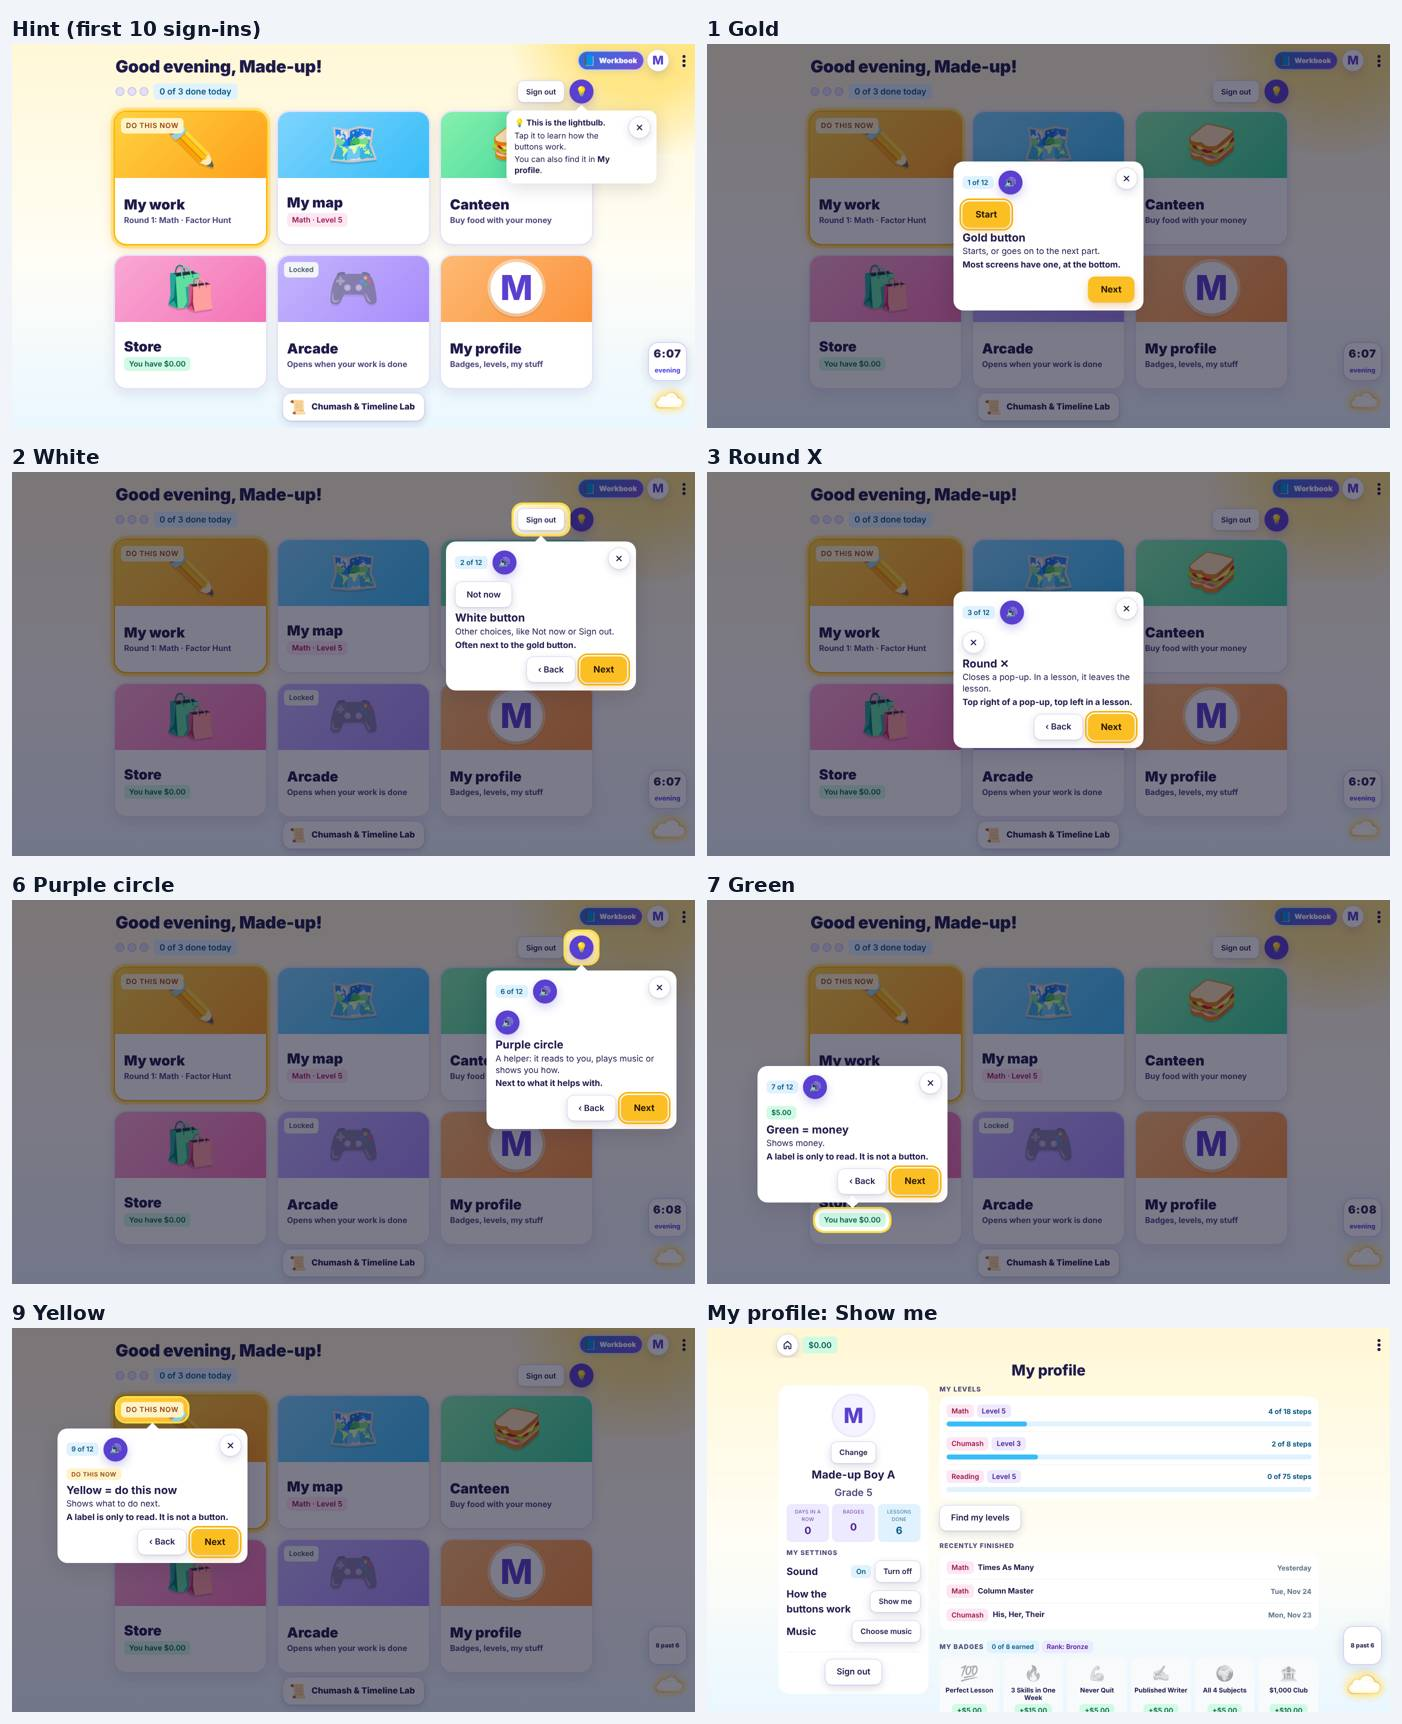
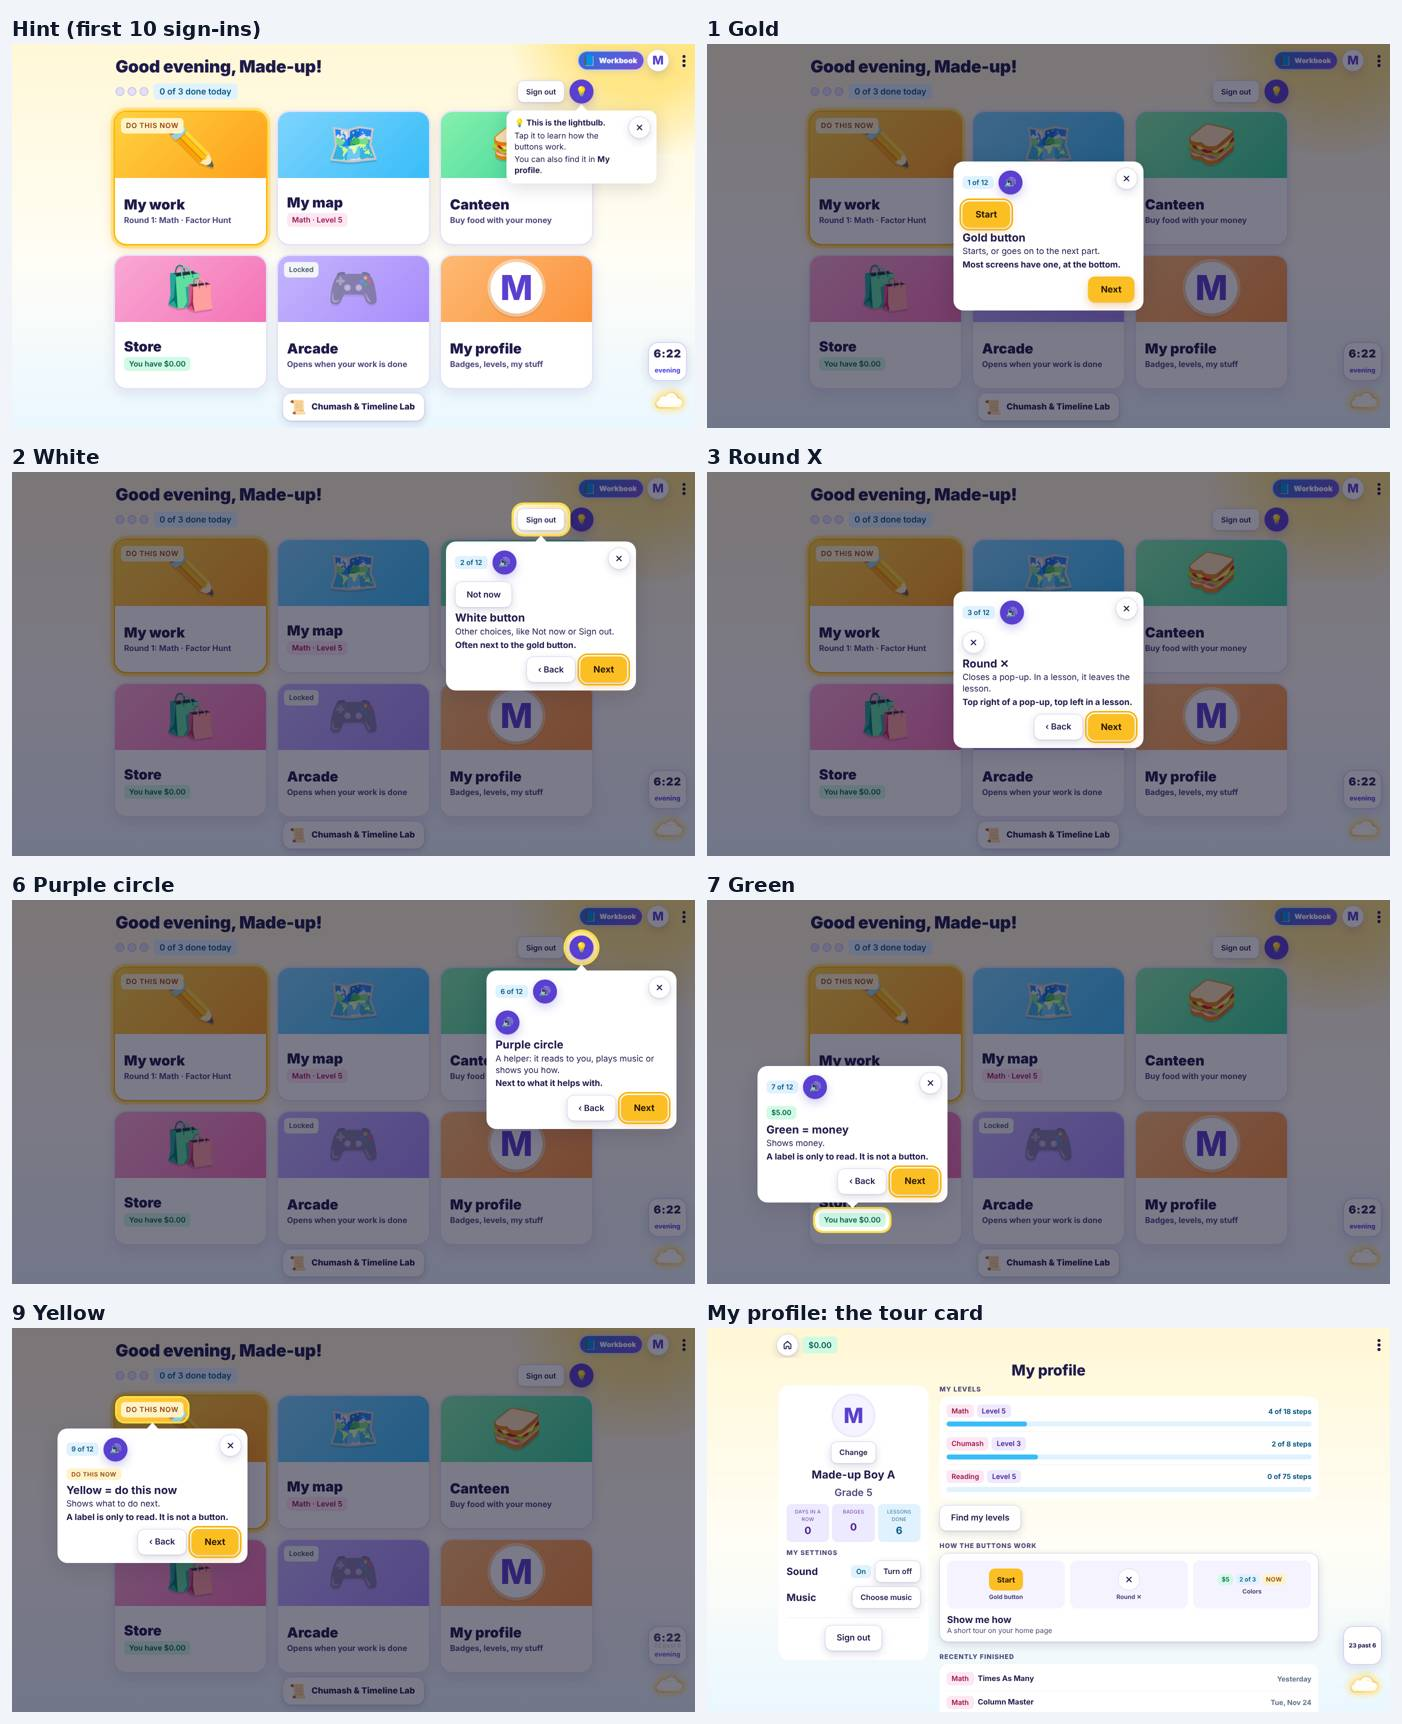
My profile: the tour is its own card with small previews, under My levels
Claude-Session: https://claude.ai/code/session_01AJ42nXYzFWqbuJT8SdfQ3Y

diff --git a/src/GameMap.html b/src/GameMap.html
@@ -630,7 +630,6 @@ function moreHTML(ws,P){ const k2=document.body.classList.contains('gm-k2'), st=
   <div class="pr-boxes">${Q.box('rank','Days in a row',String(streak))}${Q.box('rank','Badges',String(earned))}${Q.box('prog','Lessons done',String(lessons))}</div>
   <h2 class="pr-sec">My settings</h2>
   <div class="pr-set"><span>Sound</span>${Q.pill(snd?'prog':'lock',snd?'On':'Off')}${Q.quiet(snd?'Turn off':'Turn on','data-gm="pfsnd"','tlk-small')}</div>
-  <div class="pr-set"><span>How the buttons work</span>${Q.quiet('Show me','data-gm="pftour"','tlk-small')}</div>
   <div class="pr-set"><span>Music</span>${Q.quiet('Choose music','data-gm="pfmus"','tlk-small')}</div>
   <div class="pr-out">${Q.quiet('Sign out','data-gm="pfout"')}</div></aside>`;
  /* his levels */
@@ -639,7 +638,13 @@ function moreHTML(ws,P){ const k2=document.body.classList.contains('gm-k2'), st=
   return `<div class="pr-lv"><div class="r">${Q.pill('subj',w.name)}${Q.pill('rank','Level '+w.level)}<span class="n">${dn} of ${tot} steps</span></div><span class="pr-bar" role="img" aria-label="${dn} of ${tot} steps"><i style="width:${pc}%"></i></span></div>`; }).join('');
  if(!lv) lv='<p class="pr-none">Your rebbe or teacher sets your levels. Until then, find your levels below.</p>';
  const find=document.querySelector('#app [data-hp=levels]');
- const levels=sec('My levels')+`<div class="pr-card">${lv}</div>`+(find?`<div class="pr-row">${Q.quiet('Find my levels',px(find).trim())}</div>`:'');
+ const levels=sec('My levels')+`<div class="pr-card">${lv}</div>`+(find?`<div class="pr-row">${Q.quiet('Find my levels',px(find).trim())}</div>`:'')
+  /* HoS 2026-11-26: the button tour has its own section here, with small previews of its cards; the whole card opens the tour */
+  +sec('How the buttons work')+`<button type="button" class="tlk tlk-tile pr-tour" data-gm="pftour" aria-label="Show me how the buttons work"><span class="pr-tprev" aria-hidden="true">`
+  +`<span class="pr-tc"><span class="tlk tlk-main tlk-small">Start</span><small>Gold button</small></span>`
+  +`<span class="pr-tc"><span class="tlk tlk-x">${TLK.X_SVG}</span><small>Round ✕</small></span>`
+  +`<span class="pr-tc">${Q.pill('money','$5')}${Q.pill('prog','2 of 3')}${Q.pill('now','Now')}<small>Colors</small></span>`
+  +`</span><span class="pr-tgo"><b>Show me how</b><small>A short tour on your home page</small></span></button>`;
  /* what he finished lately (his map's growth: mastered steps in the last 7 days) */
  const wk=((g&&g.week)||[]).slice(0,5), subjOf=id=>{ const w=ws.find(x=>x.ids.indexOf(id)>=0||((x.c&&x.c.skills)||[]).some(s=>s[0]===id)); return w?w.name:''; };
  const fin=sec('Recently finished')+`<div class="pr-card">${wk.length?wk.map(x=>`<div class="pr-li">${subjOf(x[0])?Q.pill('subj',subjOf(x[0])):''}<b>${esc(nm(x[0])[0])}</b><span class="sp"></span><span class="d">${esc(dayWord(x[1]))}</span></div>`).join(''):'<p class="pr-none">Nothing finished this week yet. Your next lesson is waiting on My map.</p>'}</div>`;
@@ -1207,6 +1212,10 @@ body #gm .gm-more{background:#fff;color:#047857}
 #gm .pr-boxes{display:grid;grid-template-columns:repeat(3,1fr);gap:6px;width:100%}
 #gm .pr-boxes .tlk-box{padding:8px 4px}#gm .pr-boxes .tlk-box small{font-size:10px;letter-spacing:.03em}
 #gm .pr-sec{display:flex;flex-wrap:wrap;align-items:center;gap:6px;margin:22px 0 8px;font-size:13px;font-weight:800;letter-spacing:.08em;text-transform:uppercase;color:#4C4A7A}
+#gm .pr-tour{width:100%;padding:14px;gap:12px}#gm .pr-tprev{display:grid;grid-template-columns:repeat(3,minmax(0,1fr));gap:10px;pointer-events:none}
+#gm .pr-tc{display:flex;flex-wrap:wrap;gap:6px;align-items:center;justify-content:center;align-content:center;min-height:96px;padding:10px 8px;border-radius:14px;background:#F5F3FF;text-align:center}
+#gm .pr-tc small{flex-basis:100%;font-size:12px;font-weight:700;color:#4B4778}#gm .pr-tc .tlk{box-shadow:none;cursor:inherit}#gm .pr-tc .tlk-pill{font-size:12px;padding:3px 7px}
+#gm .pr-tgo{display:grid;gap:2px}#gm .pr-tgo b{font-size:19px}#gm .pr-tgo small{font-size:14px;color:#4B4778}
 #gm .pr-sec .tlk-pill{text-transform:none;letter-spacing:0;font-size:13px}
 #gm .pr-me .pr-sec{align-self:flex-start;margin:6px 0 0}
 #gm .pr-set{display:flex;align-items:center;gap:8px;width:100%;justify-content:space-between;font-weight:700}

diff --git a/tools/screens/tour.js b/tools/screens/tour.js
@@ -19,7 +19,7 @@ require('fs').mkdirSync(OUT, { recursive: true });
     }
     console.log(nm, 'closed at the end:', await pg.evaluate(() => !document.getElementById('tl-tour')));
     await pg.evaluate(() => { const b = document.querySelector('#gm [data-gmnav="more"]'); if (b) b.click(); }); await pg.waitForTimeout(1200);
-    await pg.screenshot({ path: `${OUT}/${TAG}-profile-${nm}.png` }); console.log(nm, 'profile has Show me:', await pg.evaluate(() => !!document.querySelector('#gm .pr-set [data-gm="pftour"]')));
+    await pg.screenshot({ path: `${OUT}/${TAG}-profile-${nm}.png` }); console.log(nm, 'profile has the tour card:', await pg.evaluate(() => !!document.querySelector('#gm .pr-tour[data-gm="pftour"]')));
     if (errs.length) console.log('page errors', errs.slice(0, 5));
     await browser.close();
   }

diff --git a/docs/HANDOFF-BUTTONS.md b/docs/HANDOFF-BUTTONS.md
@@ -75,4 +75,4 @@ Rules: `docs/BUTTON-SYSTEM.md` (binding; kit `src/UiKit.html` `window.TLK`; test
 - Classic lesson frame: the "‹ Map" back top left (should be the kit ✕ that asks first), "Say it again", 🚩, "Check", "Take a picture", "Teach me how" and the result screen's underlined links are not on the kit yet. Mistake Detective's answer buttons, Arena avatars and subject/topic cards are answer/picker cards, left as they are.
 
 ## Done: the button tour (26 Nov 2026)
-- Plan and HoS answers: `docs/BUTTON-TUTORIAL-PLAN.md` (#551). Round 💡 right of Sign out on the home (`data-gm="pftour"`, the home test allows exactly it), "Show me" in My profile settings; hint pop-up for the first 10 sign-ins; K–3 short spoken tour, 4+ 12 cards. Code at the end of `src/GameMap.html` (`TLTOUR`). Do not add a second `<script>` block to GameMap.html (Photos.js strips only the outer tags), and the `tt-` names belong to Torah Tracks (the tour uses `tlt-`).
+- Plan and HoS answers: `docs/BUTTON-TUTORIAL-PLAN.md` (#551). Round 💡 right of Sign out on the home (`data-gm="pftour"`, the home test allows exactly it), a "How the buttons work" card with 3 small previews on the right side of My profile, under My levels (`.pr-tour`); hint pop-up for the first 10 sign-ins; K–3 short spoken tour, 4+ 12 cards. Code at the end of `src/GameMap.html` (`TLTOUR`). Do not add a second `<script>` block to GameMap.html (Photos.js strips only the outer tags), and the `tt-` names belong to Torah Tracks (the tour uses `tlt-`).

diff --git a/docs/BUTTON-TUTORIAL-PLAN.md b/docs/BUTTON-TUTORIAL-PLAN.md
@@ -38,7 +38,7 @@ HoS ask (his words, one line): "simple cards on the real home screen; each card 
 - Pictures: each card for a made-up grade 2 and grade 5 boy at 1366×768 and 390 px.
 
 ## HoS answers (26 Nov 2026) and what was built
-- It never plays by itself. It opens from a small round 💡 (purple tool) to the right of Sign out on the home, and from "How the buttons work · Show me" in My profile's settings (near the top).
+- It never plays by itself. It opens from a small round 💡 (purple tool) to the right of Sign out on the home, and from the "How the buttons work" card on the right side of My profile, under My levels (3 small previews; the whole card opens it).
 - For his first 10 sign-ins, a small pop-up by the 💡 says what it is and that it is also in My profile (once per sign-in, counted per boy on the device; never for K–1).
 - K–3: the short tour (6 cards) reads each bubble out loud by itself. Grade 4+: 12 cards with a Read it to me tool.
 - The words only say what a thing is and where it sits, and that labels are only to read (HoS: "not explaining too much").
